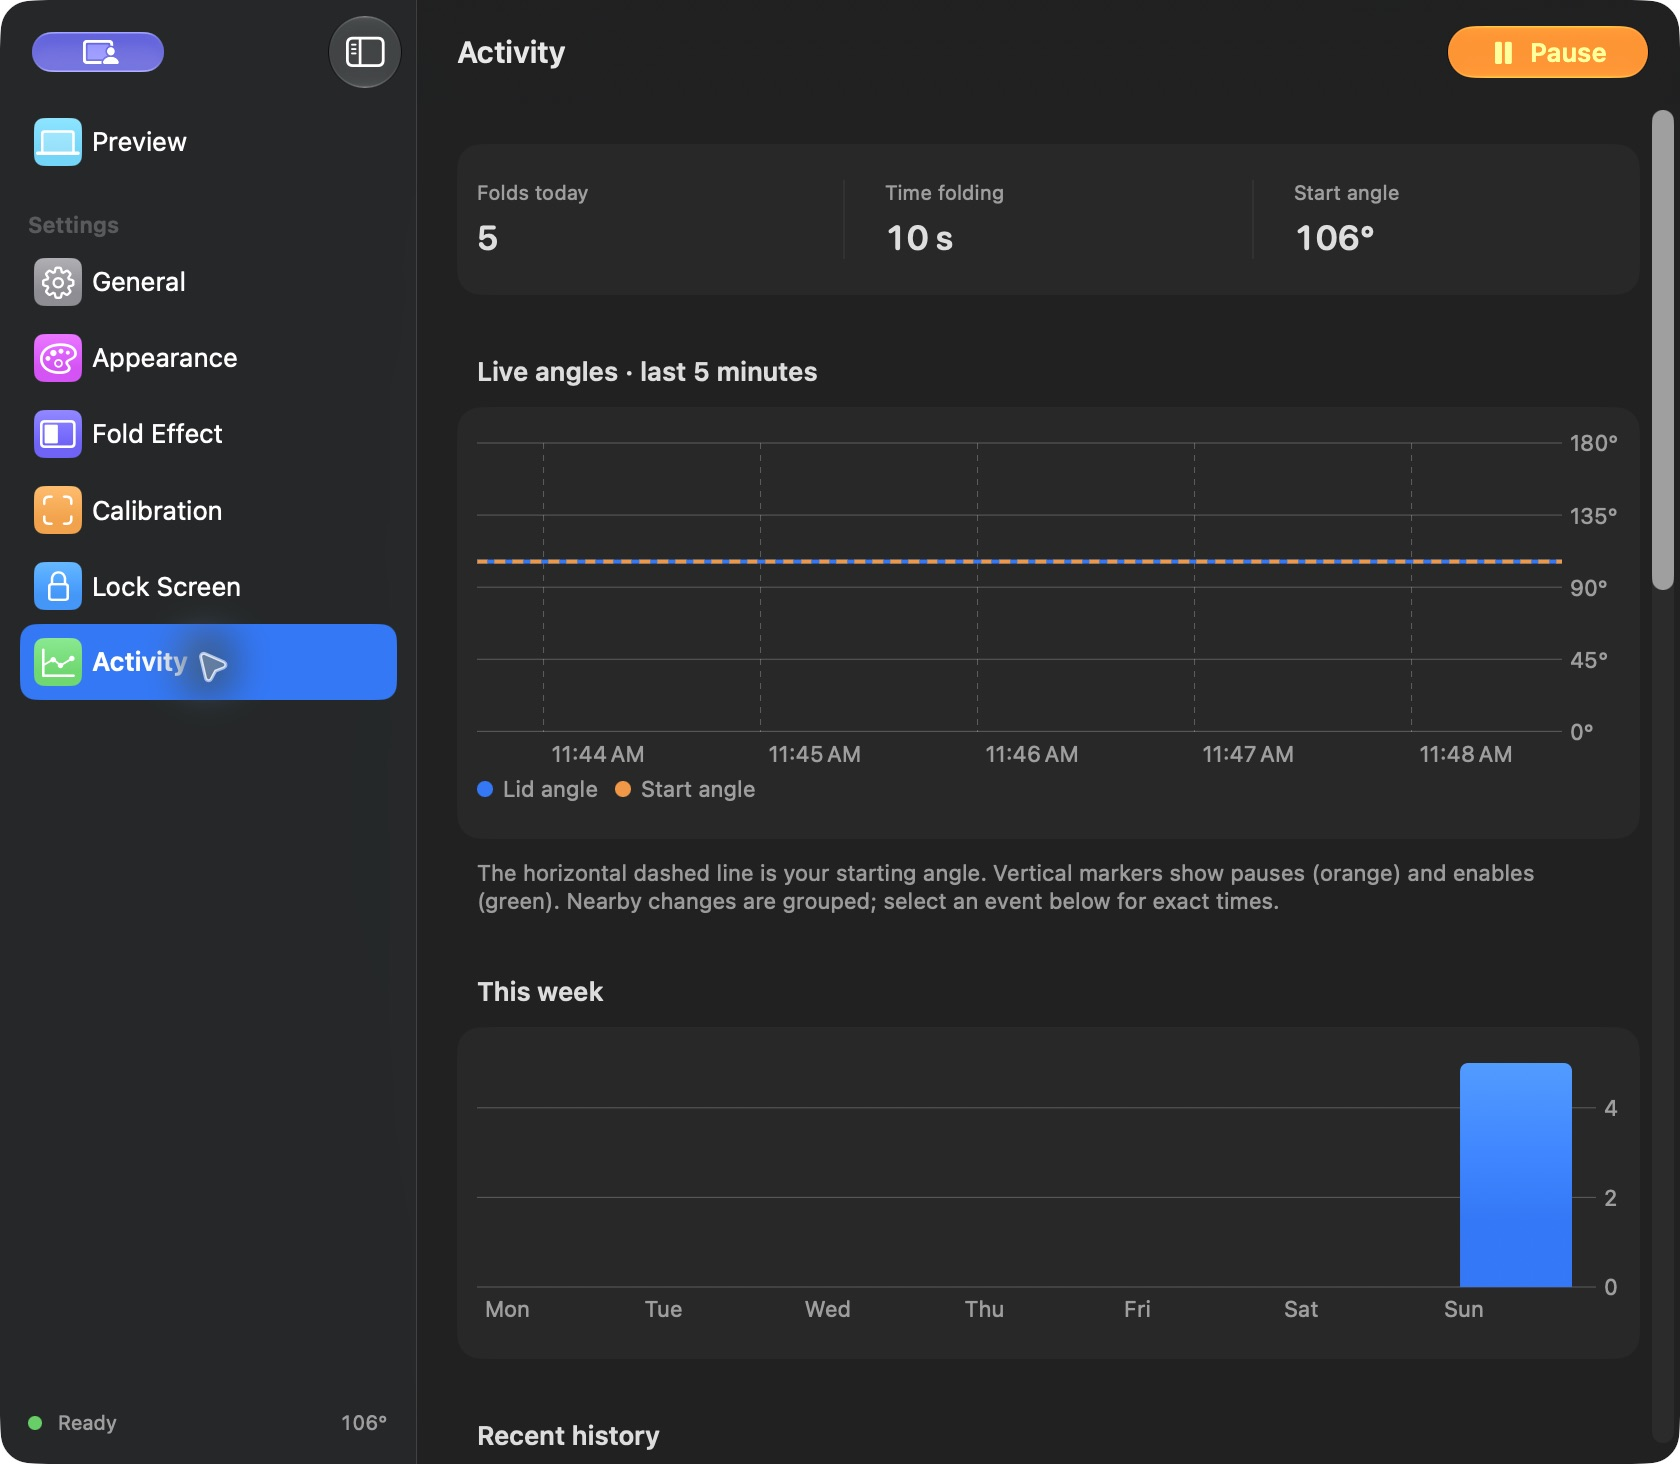
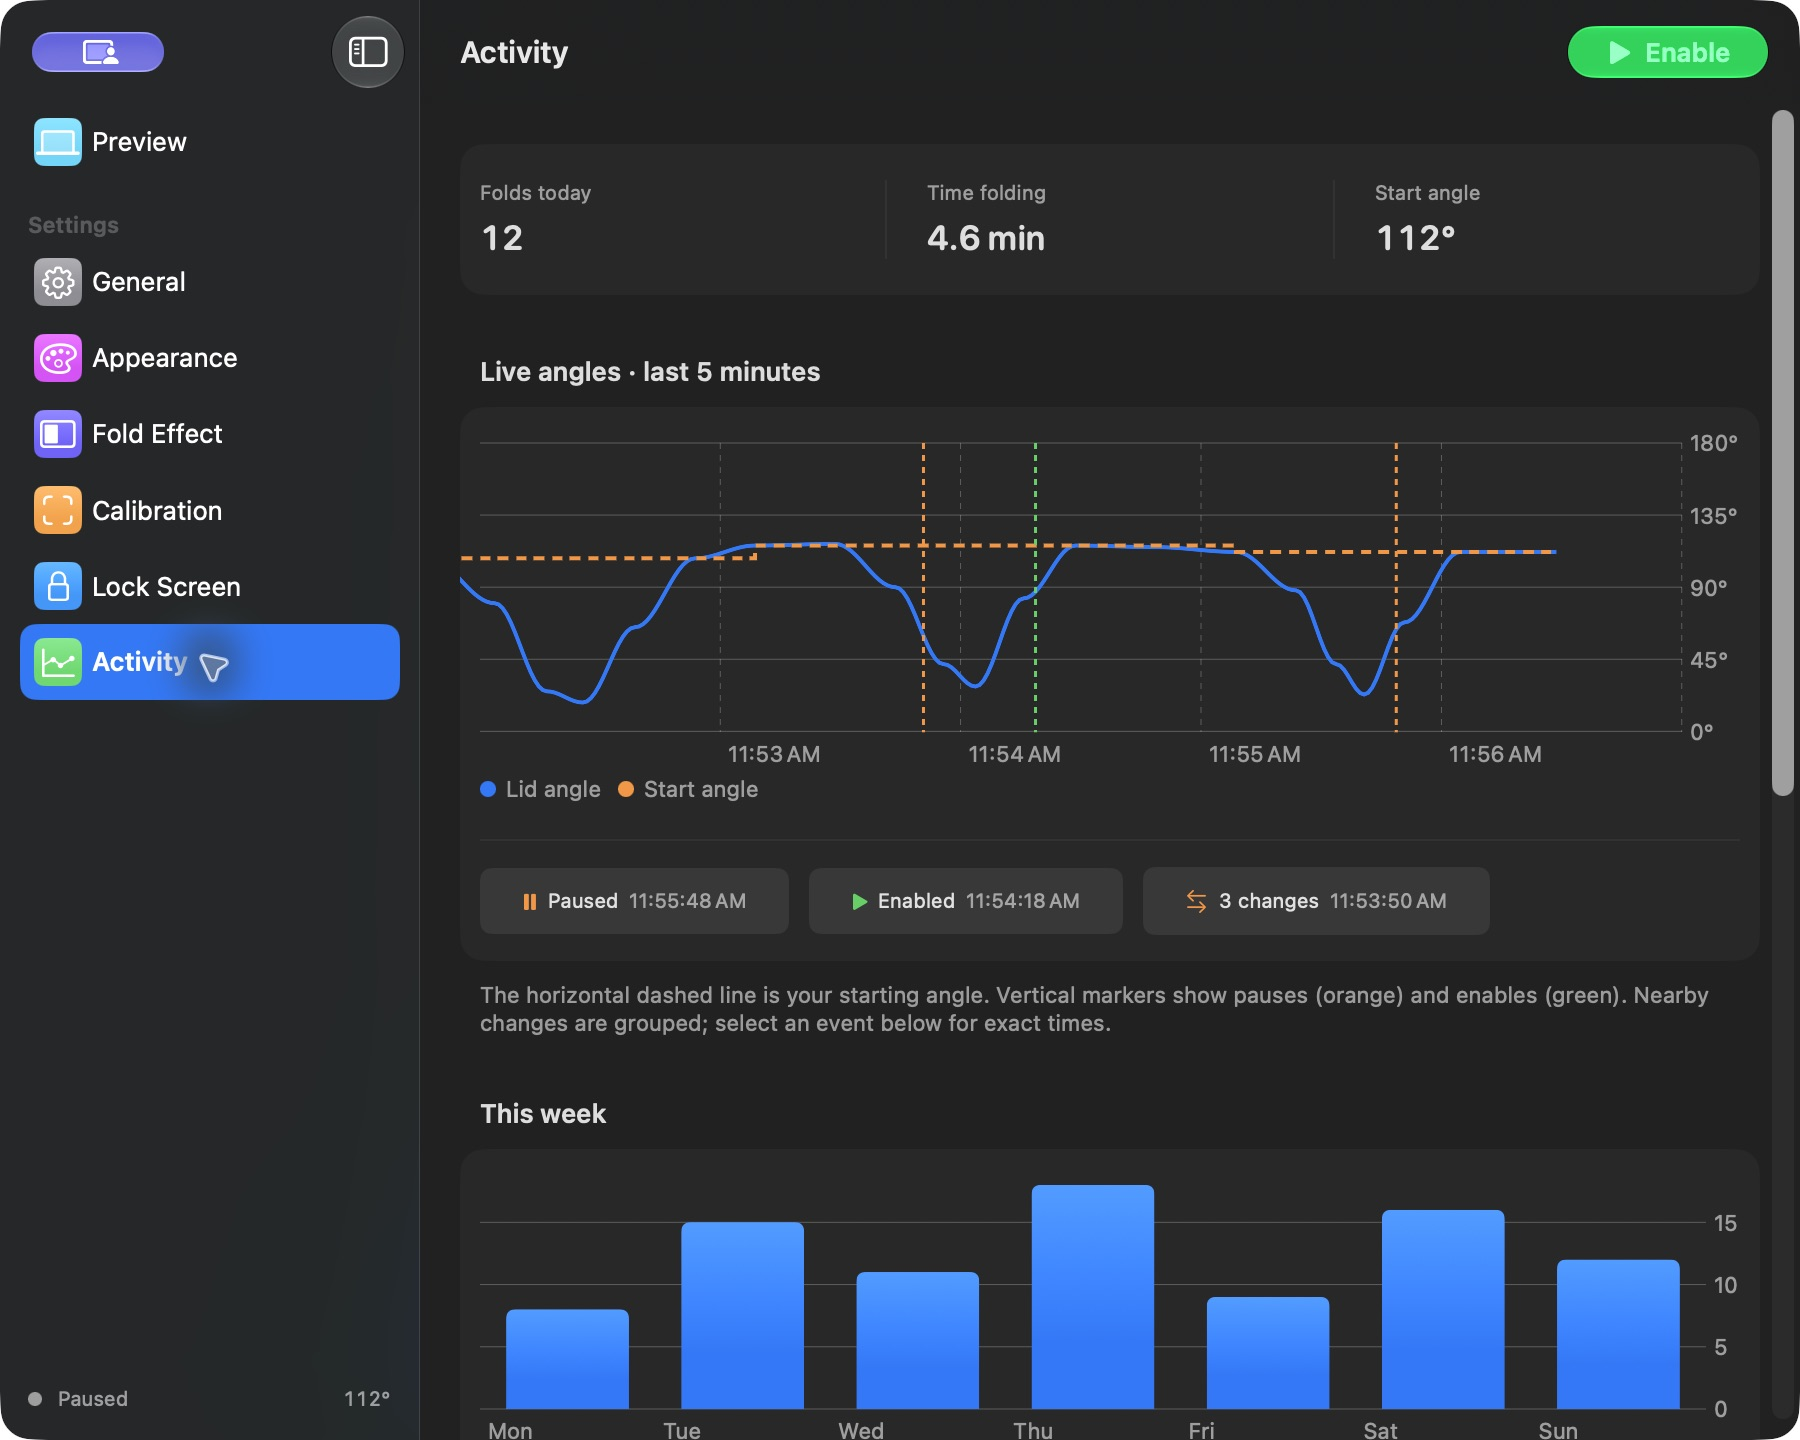
Show illustrative movement and events in Activity screenshot

diff --git a/README.md b/README.md
@@ -41,7 +41,9 @@ Choose **Light**, **Dark**, or **System** appearance. Enable and Pause controls 
 <details>
 <summary>Activity charts and history</summary>
 
-<img src="docs/images/activity.jpg" alt="Lidscape Activity pane showing today's fold count and time, live lid and starting angles, and the weekly fold chart" width="760">
+<img src="docs/images/activity.jpg" alt="Illustrative Lidscape Activity data showing repeated lid movements, starting-angle changes, grouped pause/enable markers, and varied weekly fold counts" width="760">
+
+*Illustrative data showing lid movement, calibration changes, and pause/enable events.*
 
 Track live lid angles, daily folds, and time folding. Recent history records calibration changes and enable/pause events. Nearby chart events are grouped, with exact times available on selection. History stays on your Mac and can be cleared in **Activity**.
 
